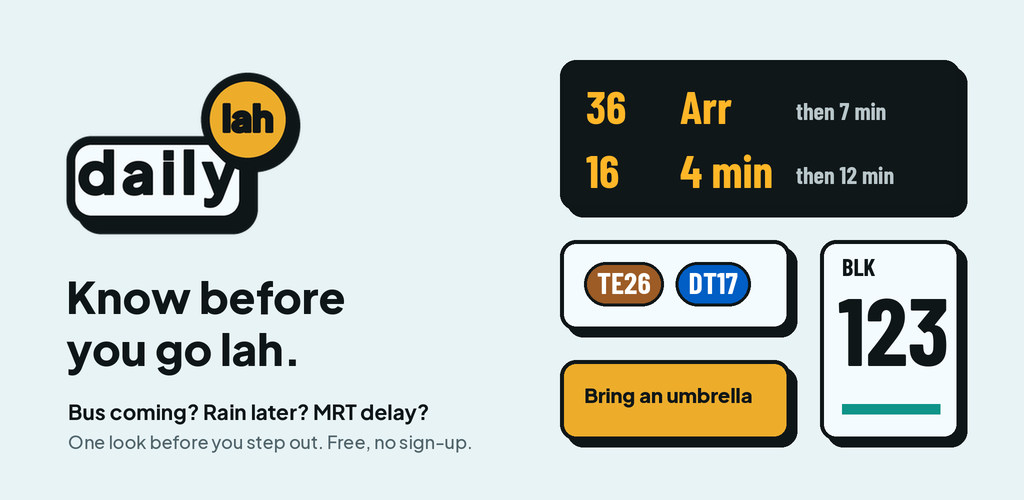
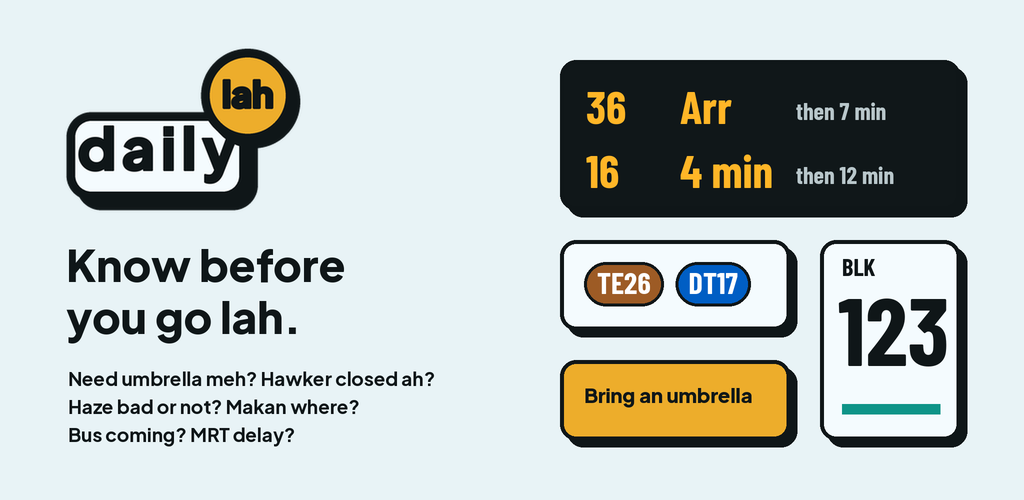
Feature graphic: Singlish questions under the tagline
Claude-Session: https://claude.ai/code/session_01QEj35UtFj3qRbUZsAT2WLz

Changed region(s): [[0.0625, 0.09, 0.4688, 0.9]]

diff --git a/scripts/make_feature_graphic.py b/scripts/make_feature_graphic.py
@@ -62,11 +62,13 @@ def feature():
     mark = make_icon.sticker(330, with_bg=False)
     mark = mark.crop(mark.getbbox())
     mark = mark.resize((int(mark.width * 0.9 * S), int(mark.height * 0.9 * S)), Image.LANCZOS)
-    im.paste(mark, (64 * S, 70 * S), mark)
-    text(d, (66, 268), "Know before", jak(44), INK)
-    text(d, (66, 320), "you go lah.", jak(44), INK)
-    text(d, (68, 398), "Bus coming? Rain later? MRT delay?", jak(21, 700), INK)
-    text(d, (68, 430), "One look before you step out. Free, no sign-up.", jak(18, 500), (80, 100, 106))
+    im.paste(mark, (64 * S, 46 * S), mark)
+    text(d, (66, 236), "Know before", jak(44), INK)
+    text(d, (66, 288), "you go lah.", jak(44), INK)
+    for i, line in enumerate(
+        ["Need umbrella meh? Hawker closed ah?", "Haze bad or not? Makan where?", "Bus coming? MRT delay?"]
+    ):
+        text(d, (68, 366 + i * 28), line, jak(19, 700), INK)
 
     # Right: three stickers with the app's signatures.
     # 1. Bus stop LED board.
